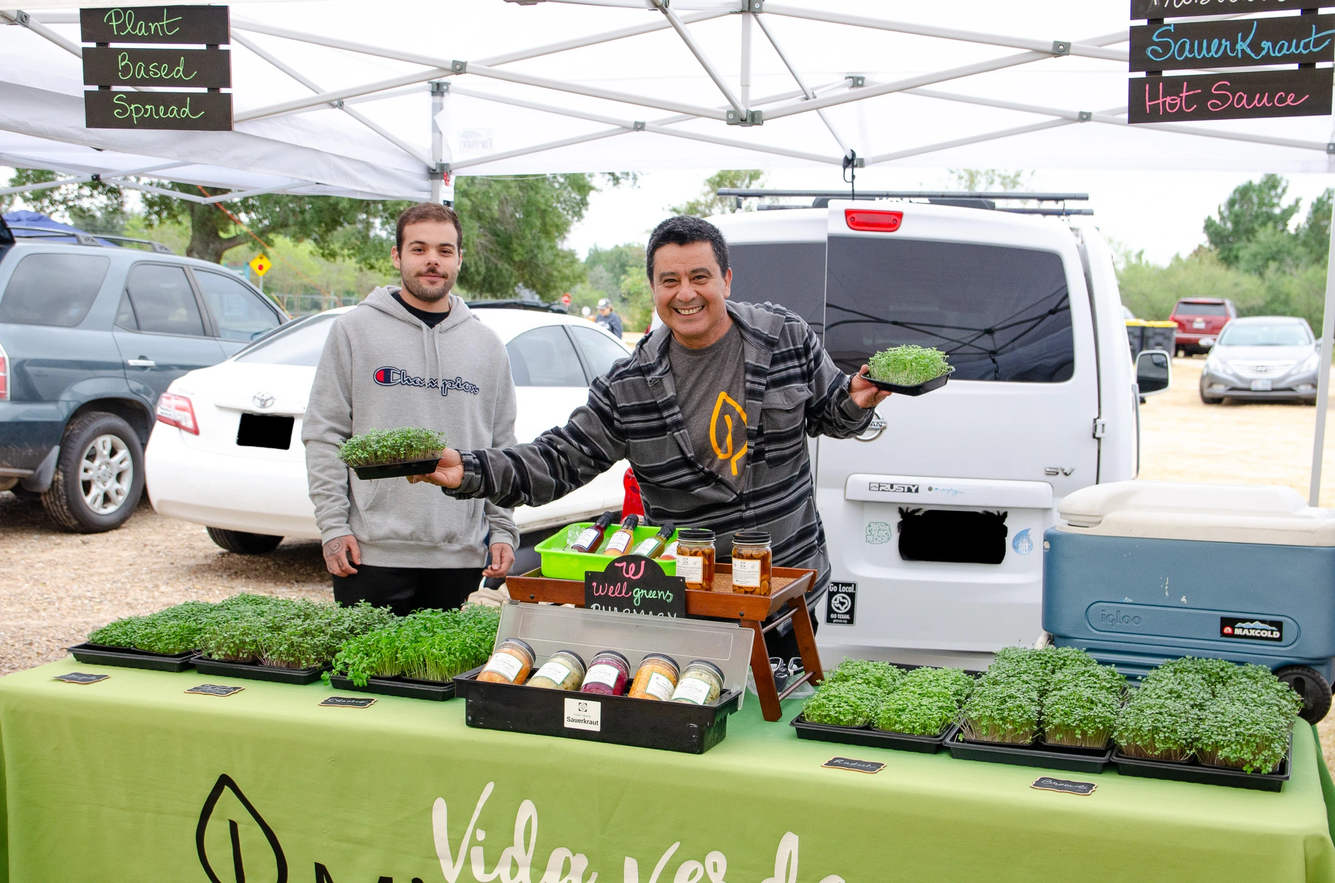
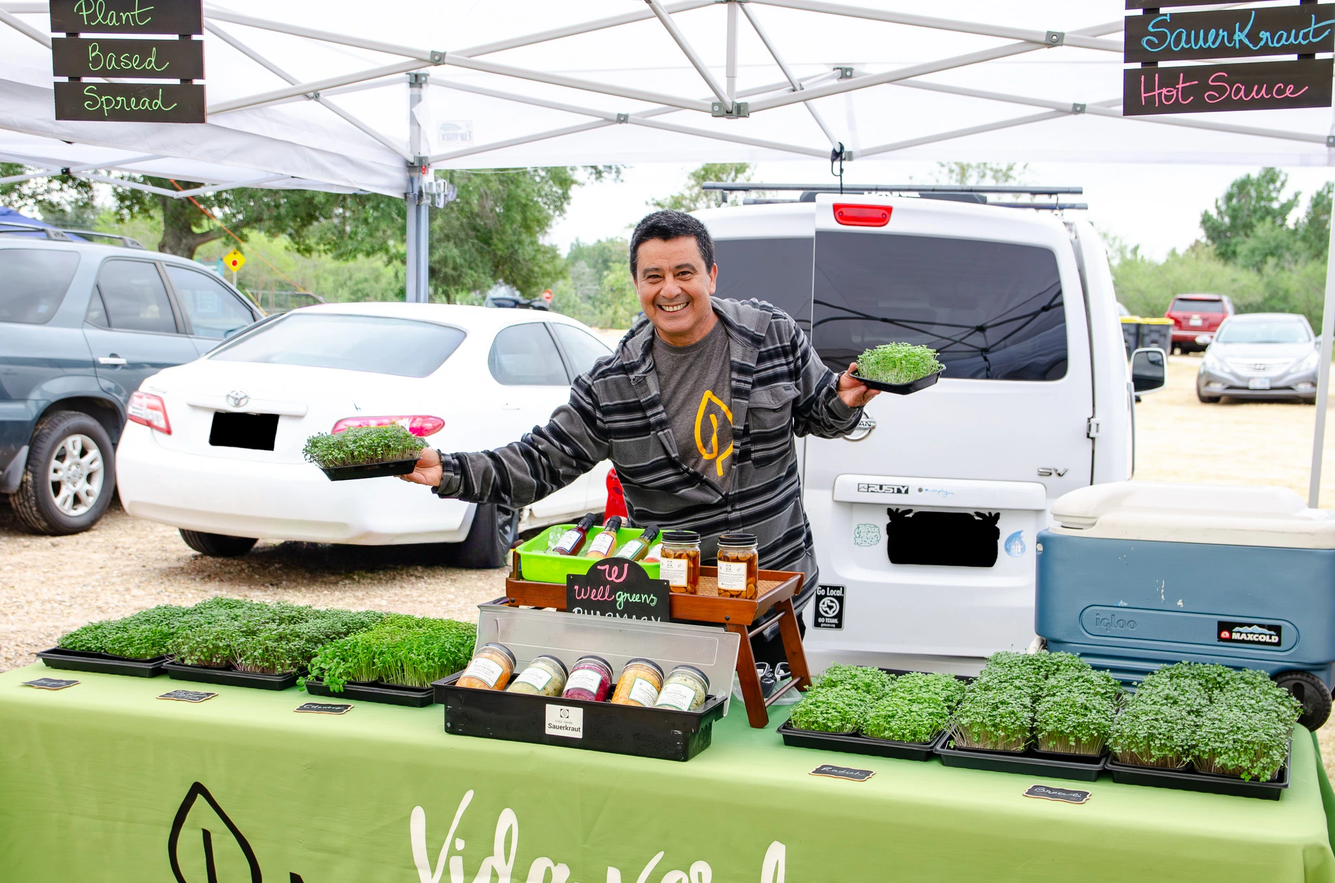
remove other dude from founder photo

diff --git a/app/components/Storefront.jsx b/app/components/Storefront.jsx
@@ -466,18 +466,6 @@ export default function Storefront({ products, inventory = {} }) {
     () => validateCheckoutForm(formValues, fulfillment),
     [formValues, fulfillment, validateCheckoutForm]
   );
-  const requiredFieldRemaining = requiredFieldNames.filter((name) =>
-    Boolean(completionErrors[name])
-  ).length;
-  const requiredFieldCompleted = requiredFieldNames.length - requiredFieldRemaining;
-  const completionProgress = Math.round((requiredFieldCompleted / requiredFieldNames.length) * 100);
-  const checkoutReadinessText = isPaymentStep
-    ? "Review your order and complete secure payment."
-    : itemCount === 0
-      ? "Add at least one jar to continue."
-      : requiredFieldRemaining === 0
-        ? "Ready for secure checkout."
-        : `${requiredFieldRemaining} required field${requiredFieldRemaining === 1 ? "" : "s"} left.`;
   const cityOptions = useMemo(() => {
     const selectedCity = String(formValues.city || "").trim();
     if (!selectedCity) return US_CITY_OPTIONS;
@@ -1108,19 +1096,6 @@ export default function Storefront({ products, inventory = {} }) {
                 ? "Review your order details below. Use Back to Edit if anything needs changes."
                 : "Fields marked * are required. Payment opens after details validate."}
             </p>
-            {!isPaymentStep ? (
-              <div className="order-form__progress" aria-live="polite">
-                <div className="order-form__progress-row">
-                  <strong>
-                    {requiredFieldCompleted}/{requiredFieldNames.length} required complete
-                  </strong>
-                  <span>{checkoutReadinessText}</span>
-                </div>
-                <div className="order-form__progress-track" aria-hidden="true">
-                  <span style={{ width: `${completionProgress}%` }}></span>
-                </div>
-              </div>
-            ) : null}
 
             {!isPaymentStep ? (
               <>

diff --git a/app/globals.css b/app/globals.css
@@ -1234,48 +1234,6 @@ img {
   color: rgba(41, 54, 47, 0.75);
 }
 
-.order-form__progress {
-  border: 1px solid var(--line);
-  border-radius: var(--radius);
-  padding: 12px;
-  background: var(--surface);
-  display: grid;
-  gap: 10px;
-}
-
-.order-form__progress-row {
-  display: flex;
-  align-items: center;
-  justify-content: space-between;
-  gap: 12px;
-}
-
-.order-form__progress-row strong {
-  font-size: 0.75rem;
-  letter-spacing: 0.12em;
-  text-transform: uppercase;
-  color: var(--green-900);
-}
-
-.order-form__progress-row span {
-  font-size: 0.78rem;
-  color: rgba(41, 54, 47, 0.75);
-}
-
-.order-form__progress-track {
-  height: 8px;
-  border-radius: 999px;
-  overflow: hidden;
-  background: rgba(41, 54, 47, 0.14);
-}
-
-.order-form__progress-track span {
-  display: block;
-  height: 100%;
-  border-radius: 999px;
-  background: var(--green-800);
-}
-
 .form__row {
   display: grid;
   grid-template-columns: repeat(auto-fit, minmax(160px, 1fr));
@@ -3589,11 +3547,6 @@ select:focus {
     padding: 20px;
   }
 
-  .order-form__progress-row {
-    flex-direction: column;
-    align-items: flex-start;
-  }
-
 }
 
 @media (max-width: 640px) {
@@ -3869,10 +3822,6 @@ select:focus {
 
   .order-form h3 {
     font-size: 1.25rem;
-  }
-
-  .order-form__progress {
-    padding: 10px;
   }
 
   label {
